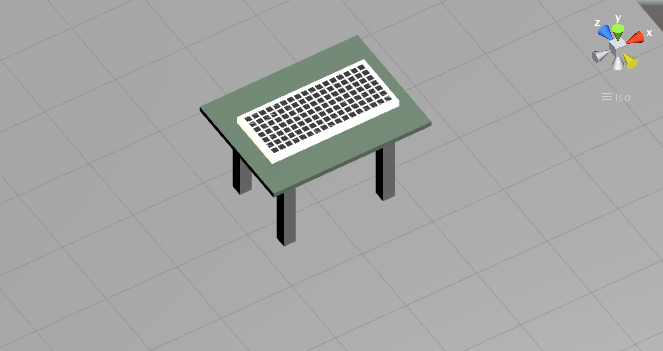
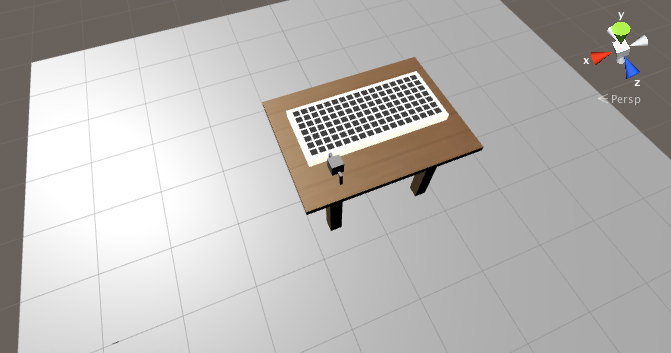
novos screenshots

diff --git a/README.md b/README.md
@@ -7,6 +7,8 @@ Este é um software que simula em 3D o laboratório de circuitos elétricos da F
 
 ![](Screenshots/mesa_visao_superior.png)
 
+![](Screenshots/Mesa_e_resistor.png)
+
 ## Configurando o Ambiente de Desenvolvimento
 
 Para iniciar o desenvolvimento, baixe a versão mais nova do [Unity Editor](https://unity3d.com/pt/get-unity/download).
